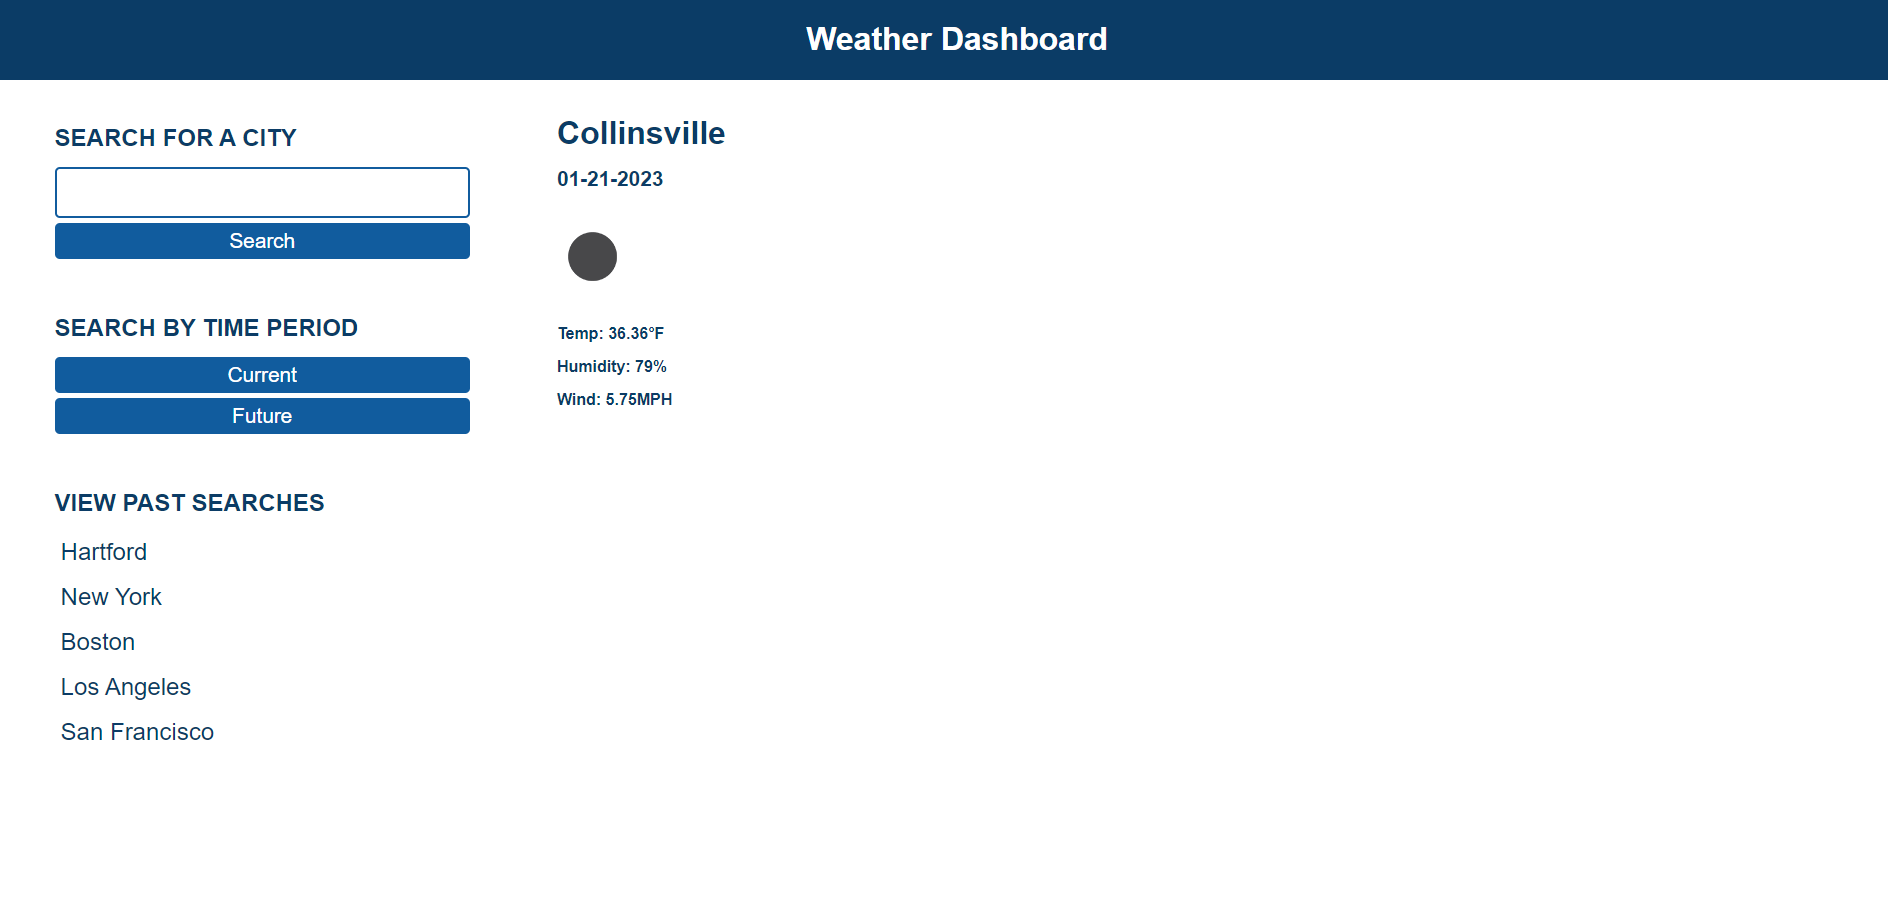
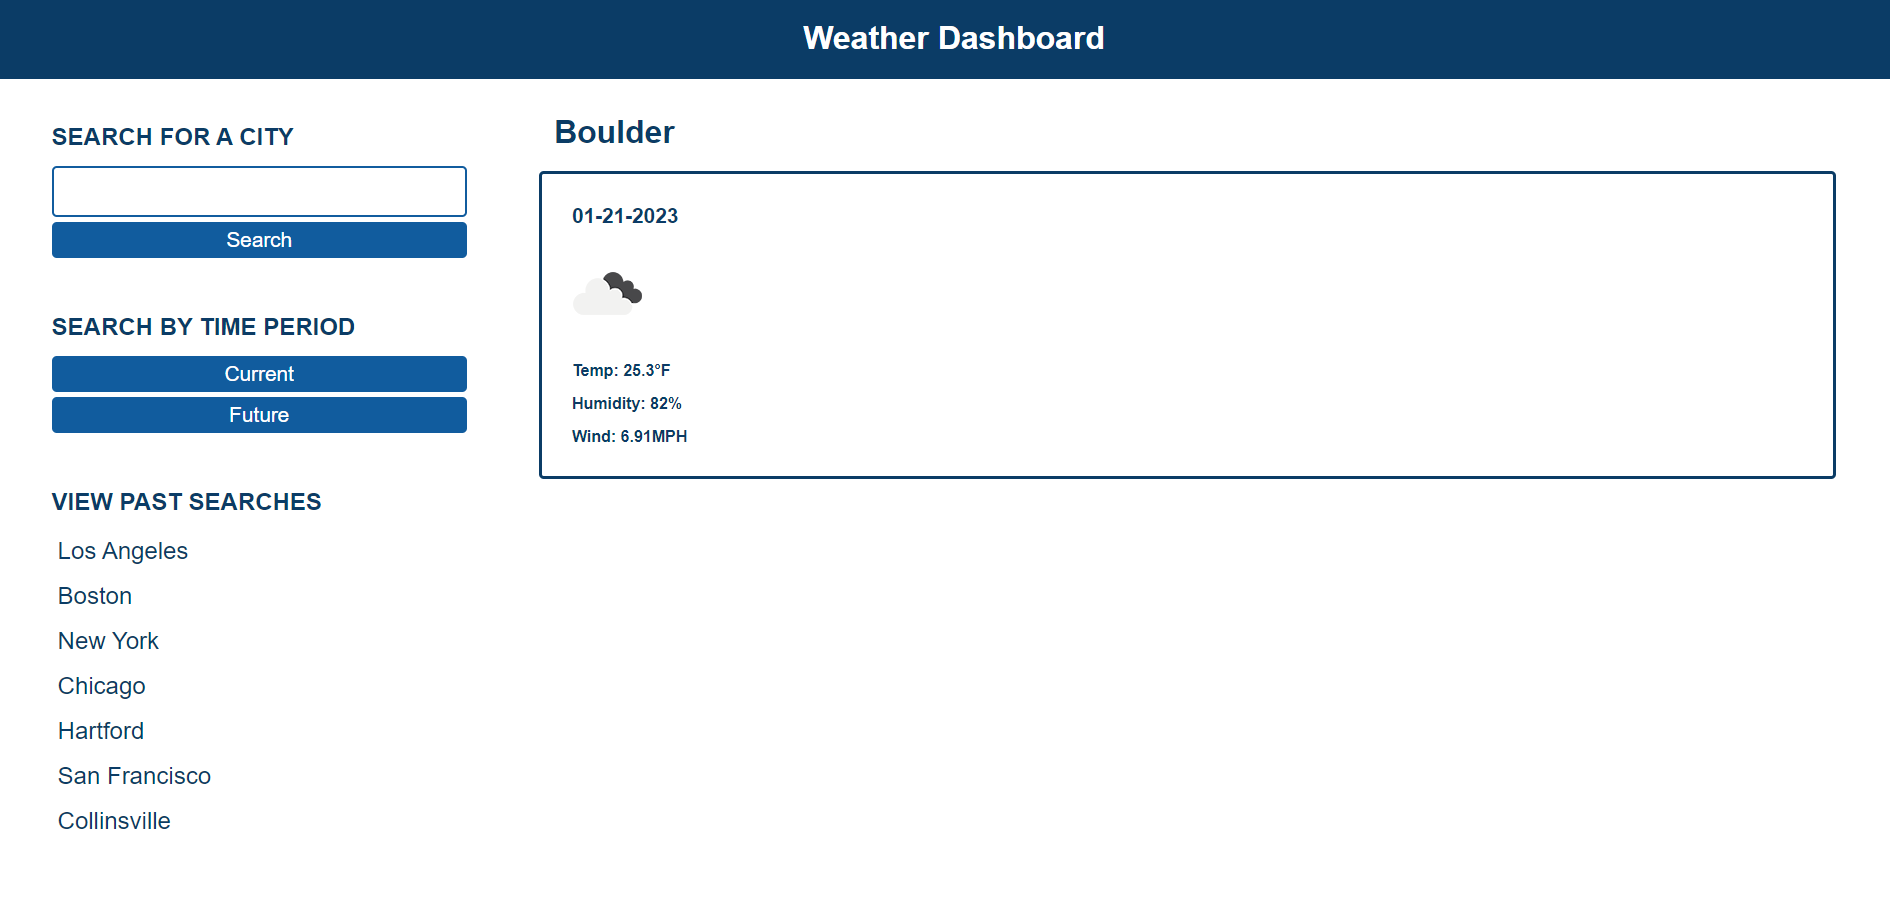
Added alert for invalid entry

diff --git a/develop/script.js b/develop/script.js
@@ -78,8 +78,12 @@ init();
       .then(function (response) {
         if (response.ok) {
             response.json().then(function (data) {
-            console.log(data);
-        
+
+            if (data.length === 0) {
+              alert('Invalid entry');
+              return;
+            };
+
             var title = document.createElement('h4');
             title.textContent = searchTerm;
            
@@ -114,13 +118,11 @@ init();
     var lat = data[0].lat;
     var lon = data[0].lon;
     var apiUrl = 'https://api.openweathermap.org/data/2.5/weather?lat=' + lat + '&lon=' + lon + '&appid=0a50200db97416c63d779065700c03c2&units=imperial&lang=en';
-    console.log(apiUrl);
 
     fetch(apiUrl)
       .then(function (response) {
         if (response.ok) {
             response.json().then(function (details) {
-            console.log(details);
             getCurrentWeather(details);
           });
         } else {
@@ -137,13 +139,11 @@ init();
     var lat = data[0].lat;
     var lon = data[0].lon;
     var apiUrl = 'https://api.openweathermap.org/data/2.5/forecast?lat=' + lat + '&lon=' + lon + '&appid=0a50200db97416c63d779065700c03c2&units=imperial&lang=en';
-    console.log(apiUrl);
 
     fetch(apiUrl)
       .then(function (response) {
         if (response.ok) {
             response.json().then(function (details) {
-            console.log(details);
             getFutureWeather(details);
           });
         } else {
@@ -210,7 +210,7 @@ var getFutureWeather = function (details) {
   futureTitle.textContent = "5-Day Forecast";
   futureTitleContainer.appendChild(futureTitle);
 
-  for (i = 7; i < 40; i++) {
+  for (i = 0; i < 40; i++) {
     var divFuture = document.createElement('div');
     divFuture.setAttribute('class', "futureday");
     futureResults.appendChild(divFuture);
@@ -246,7 +246,7 @@ var getFutureWeather = function (details) {
     windspeed.textContent = "Wind: " + windspeedVal + "MPH";
     divFuture.appendChild(windspeed);
 
-    i = i + 7;
+    i = i + 8;
   }
 };
 
@@ -283,7 +283,6 @@ function printPastSearches() {
   for (var i = 0; i < citiesSearchedArray.length; i++) {
       if (!unduplicatedCitiesSearchedArray.includes(citiesSearchedArray[i].city)) {
           unduplicatedCitiesSearchedArray.push(citiesSearchedArray[i].city);
-          console.log(unduplicatedCitiesSearchedArray);
       };
   };
 

diff --git a/README.md b/README.md
@@ -7,13 +7,13 @@ My weather dashboard runs in the browser and features dynamically updated HTML a
 The following images show the web application's appearance and functionality.
 
 If neither current or future is selected, both time periods will display.
-![The weather app includes a search option, a list of past searched cities, and a five-day forecast and current weather conditions for Collinsville.](./assets/weather-dashboard.png)
+![The weather app includes a search option, a list of past searched cities, and a five-day forecast and current weather conditions for Boulder.](./assets/weather-dashboard.png)
 
 If current is selected, then the current day's weather will display.
-![The weather app includes a search option, a list of past searched cities, and a five-day forecast and current weather conditions for Collinsville.](./assets/weather-dashboard-current.png)
+![The weather app includes a search option, a list of past searched cities, and a five-day forecast and current weather conditions for Boulder.](./assets/weather-dashboard-current.png)
 
 If future is selected, then a five day forecast will display.
-![The weather app includes a search option, a list of past searched cities, and a five-day forecast and current weather conditions for Collinsville.](./assets/weather-dashboard-future.png)
+![The weather app includes a search option, a list of past searched cities, and a five-day forecast and current weather conditions for Boulder.](./assets/weather-dashboard-future.png)
 
 
 ## Link
